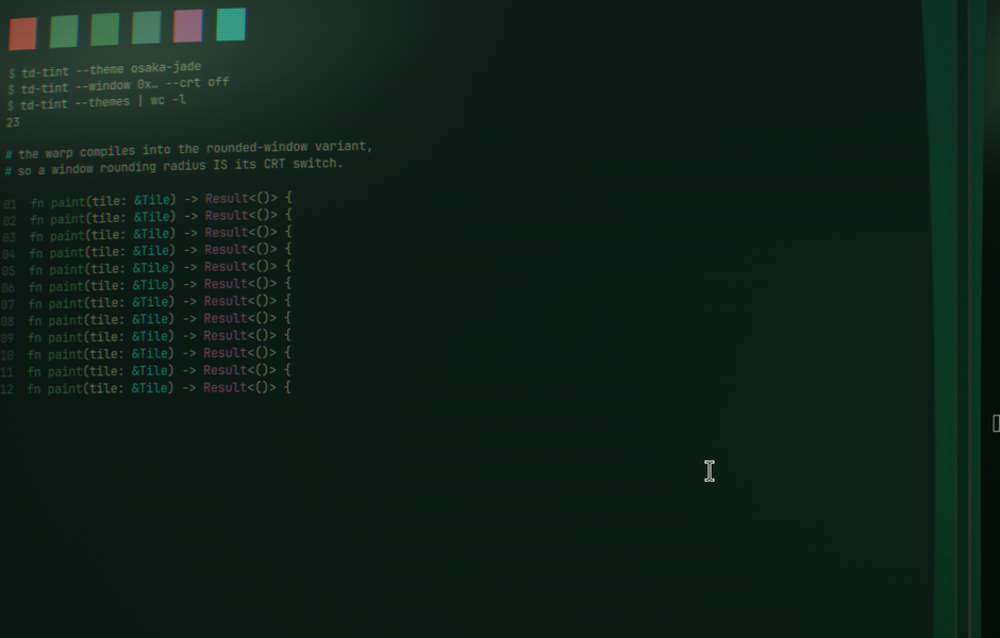
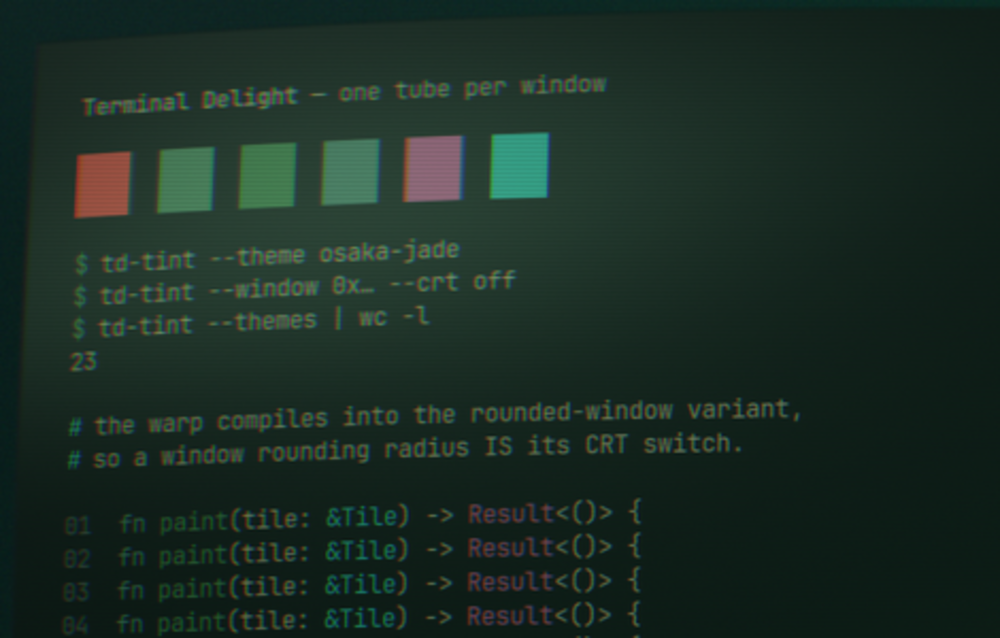
The README's own pictures were two generations stale
`docs/gallery/paint-overlay.png` was the hero image on this README and showed
a picker that no longer exists: eleven palette glyphs, no CRT switch, an
`S all · R reset` legend that was replaced twice over. The lede under it said
the picker paints "with the variant set", which stopped being true when the
picker went Omarchy-themes-only.

Both re-shot from the current build, and the lede now says what the thing
does: the cards are the machine's own installed themes, and the two switches
beside them are SATURATE and the tube.

Caught auditing this repo for publishing readiness, which is the point of
auditing before publishing rather than after.

diff --git a/README.md b/README.md
@@ -10,18 +10,22 @@ every window, not just one app's.
 ![preview](preview.png)
 
 **Paint every terminal its own identity.** The 🎨 workspace picker floats a
-card over each tile; one click paints it — palette, border, glare and all —
-and the SATURATE crank makes the text glow like the terminal that inspired it:
+card over each tile holding every Omarchy theme on the machine; one click
+paints that tile — palette, border and all — and two switches beside it crank
+the text to a phosphor glow or take the tile's tube away:
 
-![the paint overlay — a picker card over every terminal tile](docs/gallery/paint-overlay.png)
+![the paint overlay — a card of Omarchy themes over every terminal tile](docs/gallery/paint-overlay.png)
 
-![five painted tiles — retro, tide, army, wood, and a saturated nuclear](docs/gallery/painted-wall.png)
+![three tiles, three themes, each behind its own curved glass](docs/gallery/painted-wall.png)
 
 That picker is a separate, optional install —
 [**Terminal Paint**](https://github.com/parker-brown-family/omarchy-td-palette),
-a bar widget on the Omarchy plugin marketplace. This repo is what it paints
-*with*: the variant set, and the `td-tint` engine underneath it. Everything
-below works from the command line without it.
+a bar widget on the Omarchy plugin marketplace. It paints with the *desktop's*
+vocabulary rather than ours, because Omarchy's theme set is larger and is
+already the one you chose your desktop from. This repo is the engine
+underneath — `td-tint` — plus the eleven hand-made palettes it can also wear
+from a prompt. Everything below works from the command line without the
+picker.
 
 ```bash
 omarchy plugin add https://github.com/parker-brown-family/omarchy-td-palette.git --enable
